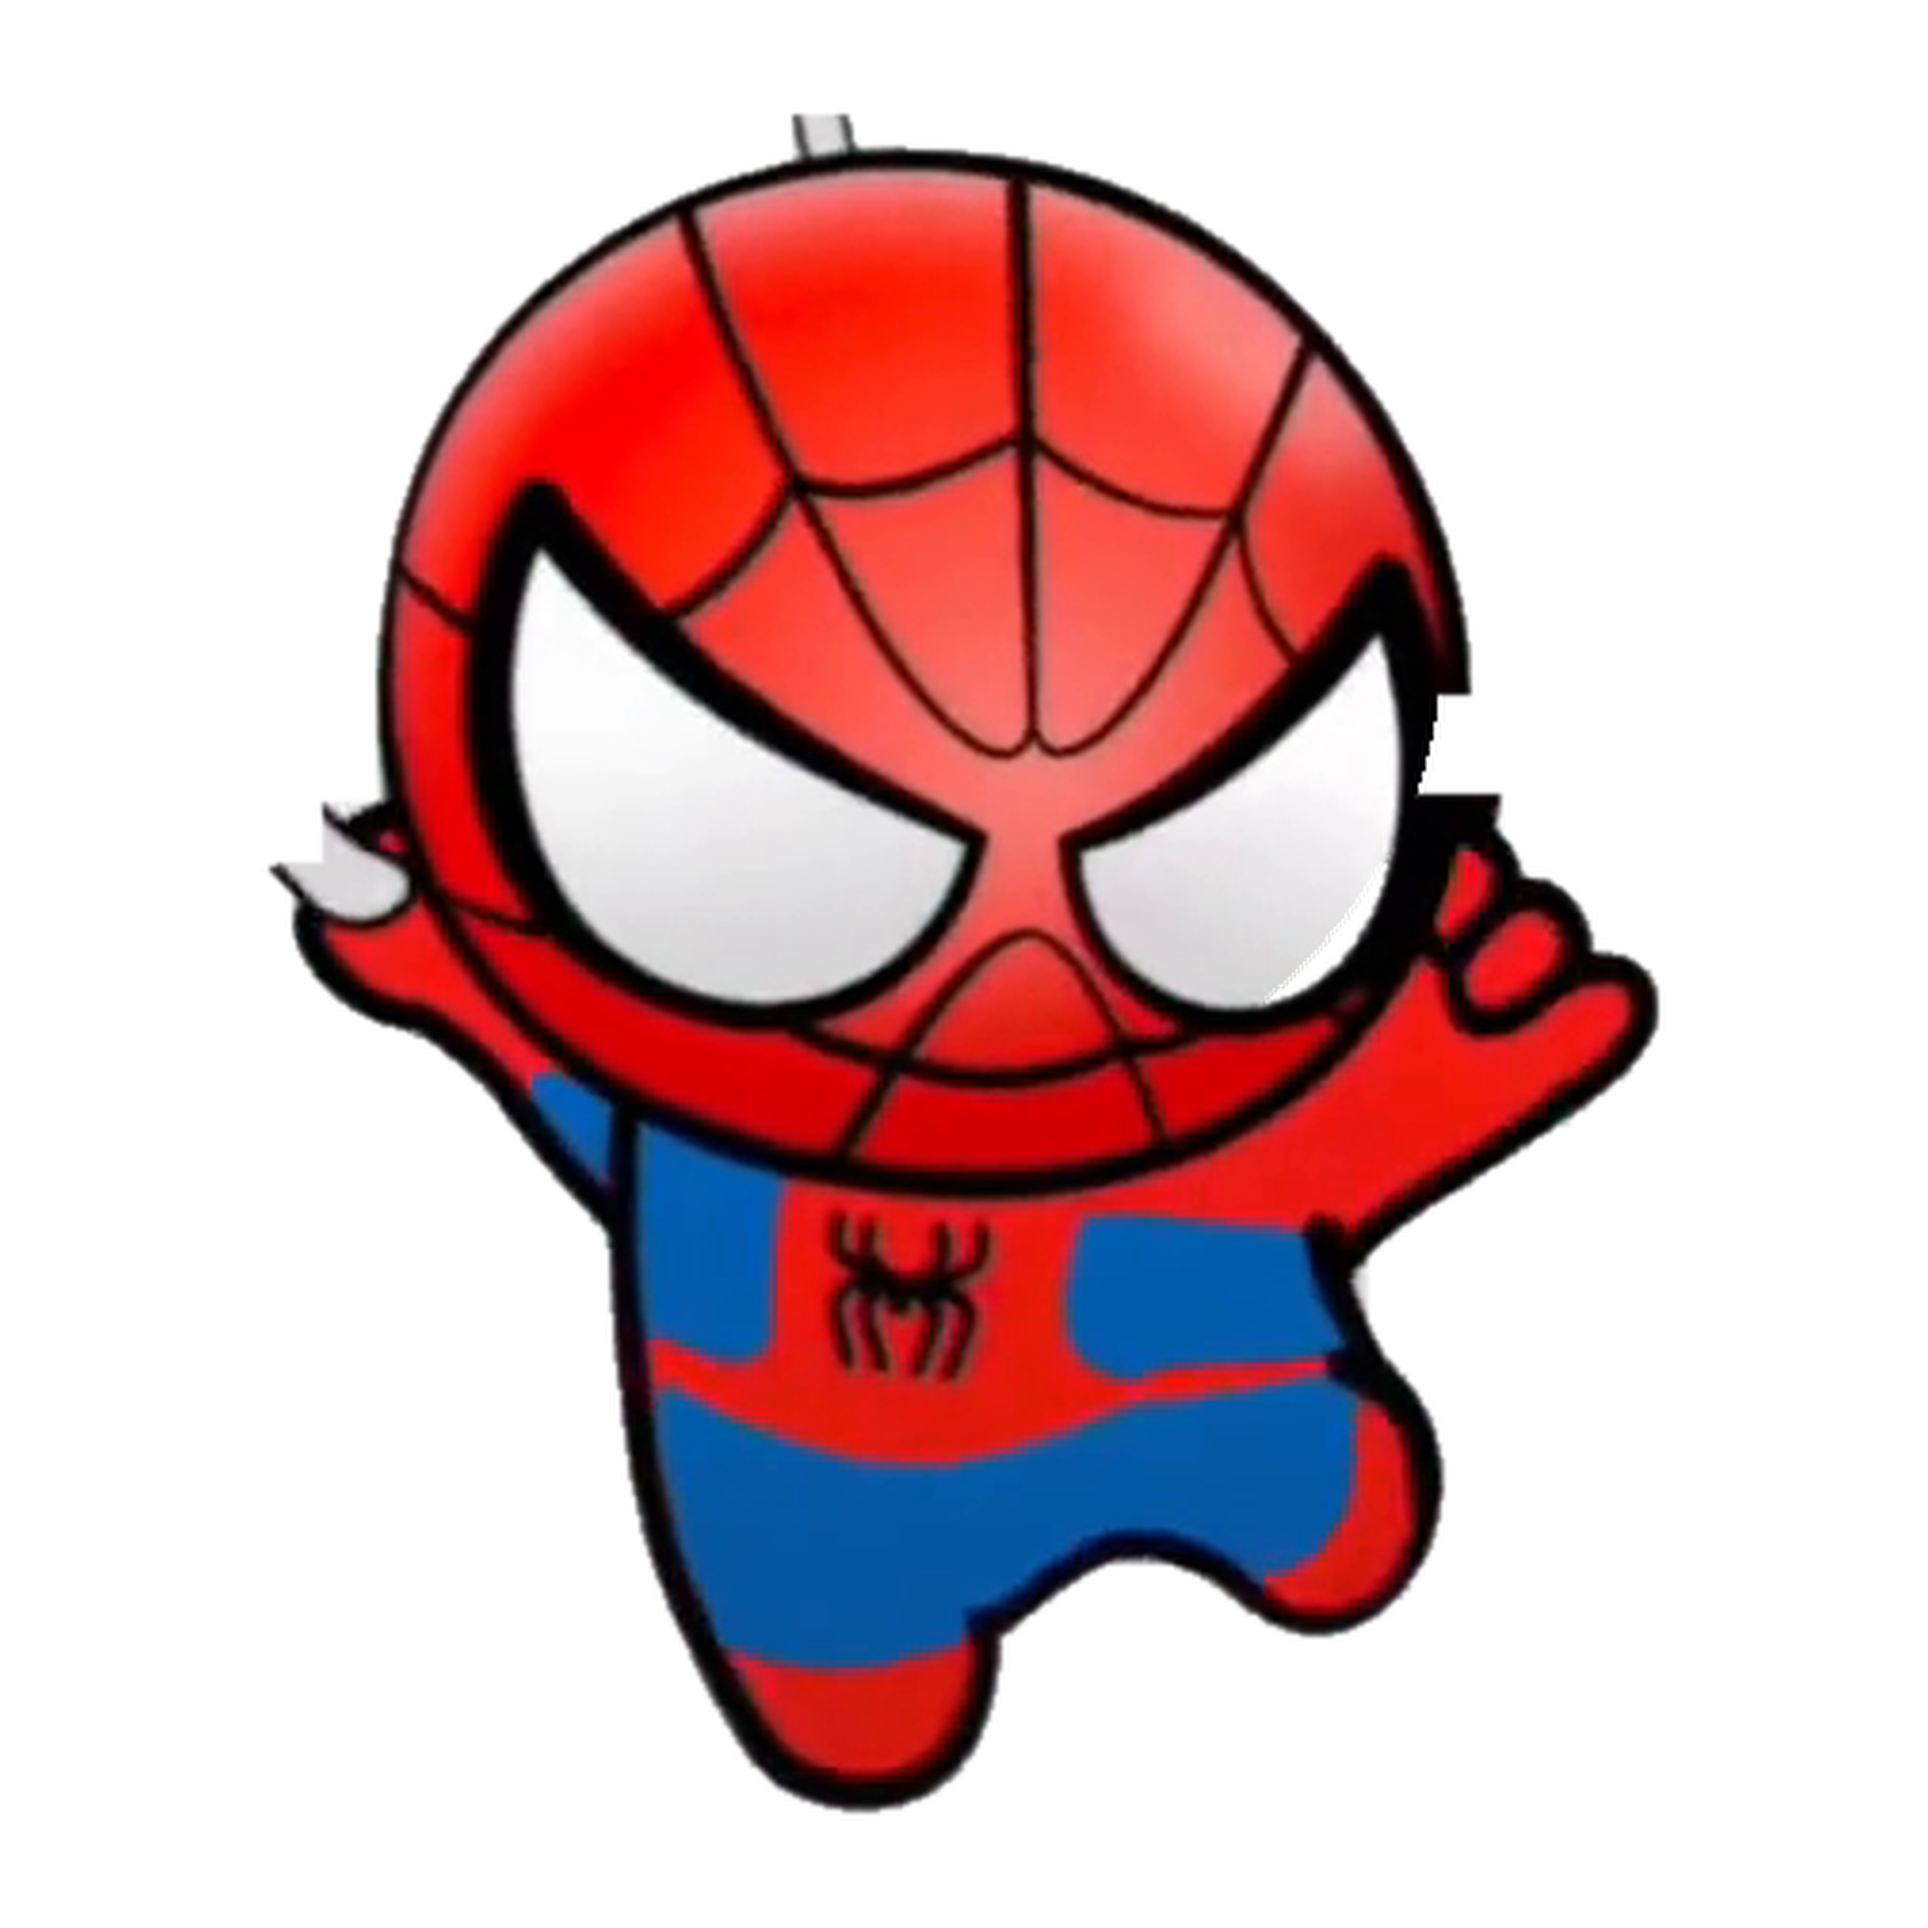
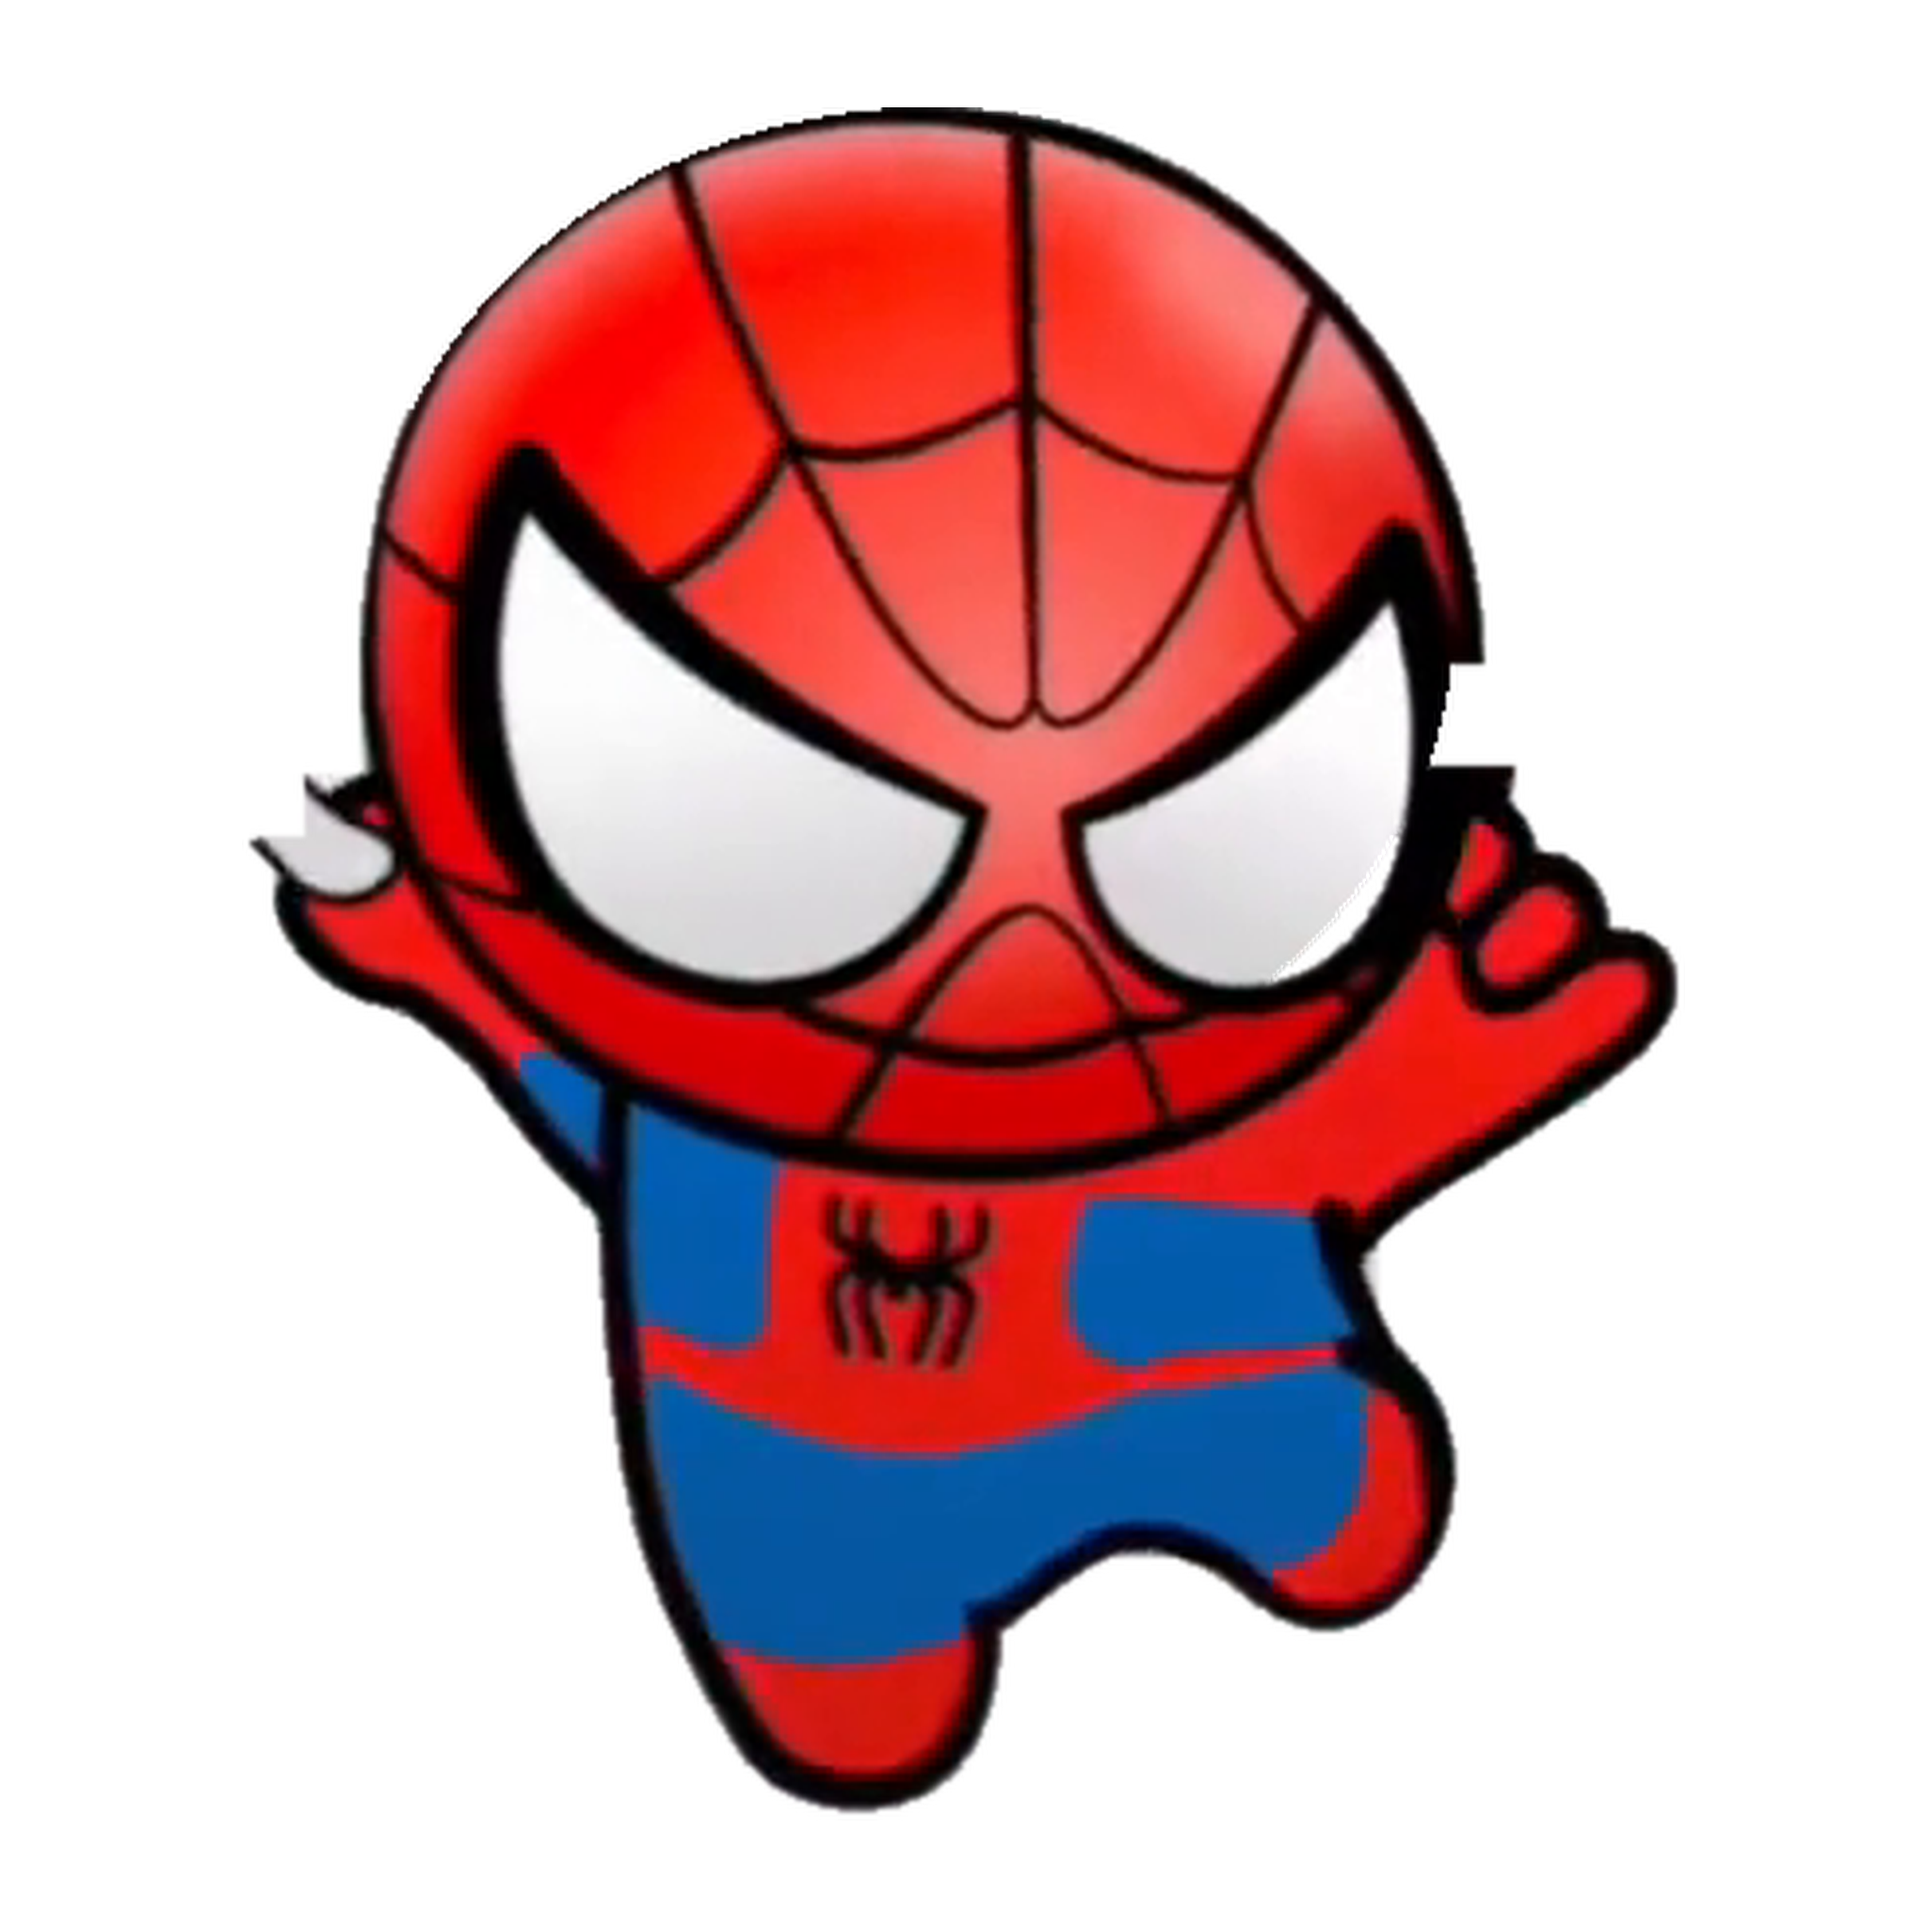
Smooth body effect and connect web anchor

Changed region(s): [[0.125, 0.0312, 0.875, 0.9375], [0.4688, 0.9062, 0.5, 0.9375]]

diff --git a/extension/content.js b/extension/content.js
@@ -14,11 +14,9 @@
     },
     body: {
       poses: [
-        "assets-v2/body-pose-1.png",
-        "assets-v2/body-pose-2.png",
-        "assets-v2/body-pose-3.png",
-        "assets-v2/body-pose-4.png",
-        "assets-v2/body-pose-5.png",
+        { source: "assets-v2/body-pose-2.png", x: "1.81%", y: ".98%" },
+        { source: "assets-v2/body-pose-4.png", x: "8.06%", y: ".39%" },
+        { source: "assets-v2/body-pose-5.png", x: "3.56%", y: "-1.56%" },
       ],
       audio: "assets/body.m4a",
       duration: 3150,
@@ -26,6 +24,7 @@
   });
   const ALLOWED_TEXT_INPUT_TYPES = new Set(["", "text", "search"]);
   const MAX_ACTIVE_EFFECTS = 3;
+  const imagePreloads = new Map();
 
   let settings = { ...DEFAULT_SETTINGS };
   let compositionInProgress = false;
@@ -199,6 +198,31 @@
     return image;
   }
 
+  function preloadImage(source) {
+    if (imagePreloads.has(source)) return imagePreloads.get(source);
+    const promise = new Promise((resolve) => {
+      const image = new Image();
+      const finish = () => {
+        const decoding = typeof image.decode === "function" ? image.decode() : null;
+        if (decoding?.then) decoding.then(resolve, resolve);
+        else resolve();
+      };
+      image.onload = finish;
+      image.onerror = resolve;
+      image.src = chrome.runtime.getURL(source);
+    });
+    imagePreloads.set(source, promise);
+    return promise;
+  }
+
+  function preloadVariant(variant) {
+    const characterSources = variant.poses
+      ? variant.poses.map((pose) => pose.source)
+      : [variant.character];
+    if (variant.poses) characterSources.push("assets-v2/heart.svg");
+    return Promise.all(characterSources.map(preloadImage));
+  }
+
   function makeWebSvg(kind) {
     const namespace = "http://www.w3.org/2000/svg";
     const svg = document.createElementNS(namespace, "svg");
@@ -209,7 +233,7 @@
 
     const paths = kind === "head"
       ? ["M492 -40 C492 100 492 230 492 430", "M508 -40 C508 100 508 230 508 430"]
-      : ["M486 -40 C486 130 430 260 386 470", "M500 -40 C500 130 444 266 400 474"];
+      : ["M486 -40 C486 130 474 270 456 470", "M500 -40 C500 130 488 276 470 474"];
 
     for (const data of paths) {
       const path = document.createElementNS(namespace, "path");
@@ -260,15 +284,9 @@
     return animations;
   }
 
-  function animatePose(image, index, duration) {
-    const ranges = [
-      [0, .19],
-      [.19, .39],
-      [.39, .60],
-      [.60, .80],
-      [.80, 1],
-    ];
-    const [start, end] = ranges[index];
+  function animatePose(image, index, total, duration) {
+    const start = index / total;
+    const end = (index + 1) / total;
     const cut = .0001;
     const frames = [];
     if (start === 0) {
@@ -338,14 +356,15 @@
     const web = makeLayer("position:absolute;left:15%;top:-2%;width:70%;height:60%;pointer-events:none");
     web.append(makeWebSvg("body"));
     const character = makeLayer("position:absolute;left:14%;top:34%;width:72%;aspect-ratio:1;pointer-events:none");
-    variant.poses.forEach((source, index) => {
-      const pose = makeCharacter(source);
+    variant.poses.forEach((poseConfig, index) => {
+      const pose = makeCharacter(poseConfig.source);
       pose.style.position = "absolute";
       pose.style.inset = "0";
       pose.style.opacity = index === 0 ? "1" : "0";
       pose.style.zIndex = String(index + 1);
+      pose.style.transform = `translate(${poseConfig.x},${poseConfig.y})`;
       character.append(pose);
-      animations.push(animatePose(pose, index, variant.duration));
+      animations.push(animatePose(pose, index, variant.poses.length, variant.duration));
     });
     rig.append(web, character);
     layer.append(rig);
@@ -359,6 +378,15 @@
       { offset: .84, transform: "translate(-48%,-4%) rotate(7deg) scale(.95)" },
       { offset: 1, transform: "translate(-61%,-58%) rotate(-18deg) scale(.78)" },
     ], { duration: variant.duration, easing: "cubic-bezier(.34,.04,.23,1)", fill: "both" }));
+
+    animations.push(rig.animate([
+      { offset: 0, opacity: 0 },
+      { offset: .1499, opacity: 0 },
+      { offset: .15, opacity: 1 },
+      { offset: .68, opacity: 1 },
+      { offset: .6801, opacity: 0 },
+      { offset: 1, opacity: 0 },
+    ], { duration: variant.duration, easing: "linear", fill: "both" }));
 
     animations.push(character.animate([
       { transform: "rotate(4deg) translateY(0)" },
@@ -380,10 +408,12 @@
     return animations;
   }
 
-  function playEffect() {
+  async function playEffect() {
     if (!settings.enabled) return;
     const slug = chooseVariant();
     const variant = VARIANTS[slug];
+    await preloadVariant(variant);
+    if (!settings.enabled) return;
     const root = ensureOverlay();
 
     while (activeEffects.length >= MAX_ACTIVE_EFFECTS) discard(activeEffects[0]);
@@ -418,5 +448,11 @@
 
   chrome.runtime.onMessage.addListener((message) => {
     if (message?.type === "MJ_PLAY_EFFECT" && window === window.top) playEffect();
+  });
+
+  queueMicrotask(() => {
+    if (window === window.top) {
+      for (const variant of Object.values(VARIANTS)) preloadVariant(variant);
+    }
   });
 })();

diff --git a/scripts/build_layered_assets.py b/scripts/build_layered_assets.py
@@ -54,6 +54,14 @@ BODY_FACE_ELLIPSES = (
     (85, 115, 350, 374),
 )
 
+BODY_HEAD_OUTLINES = (
+    (375, -125, 690, 178),
+    (88, 265, 377, 523),
+    (142, 303, 432, 576),
+    (176, 250, 468, 524),
+    (72, 104, 362, 382),
+)
+
 
 def largest_component(mask: np.ndarray) -> np.ndarray:
     """Keep the character while discarding detached hearts and video marks."""
@@ -177,6 +185,7 @@ def isolate_character(
     crop: tuple[int, int, int, int],
     eye_boxes: tuple[tuple[int, int, int, int], ...] = (),
     face_ellipse: tuple[int, int, int, int] | None = None,
+    thread_guard_ellipse: tuple[int, int, int, int] | None = None,
     keep_largest: bool = False,
 ) -> Image.Image:
     image = source.convert("RGB").crop(crop)
@@ -222,6 +231,13 @@ def isolate_character(
         face_mask = Image.new("L", image.size)
         ImageDraw.Draw(face_mask).ellipse(face_ellipse, fill=255)
         alpha = np.maximum(alpha, np.asarray(face_mask, dtype=np.uint8))
+        if keep_largest and thread_guard_ellipse:
+            left, top, right, bottom = thread_guard_ellipse
+            guard_mask = Image.new("L", image.size)
+            ImageDraw.Draw(guard_mask).ellipse(thread_guard_ellipse, fill=255)
+            rows = np.indices(alpha.shape)[0]
+            upper_face = rows < top + round((bottom - top) * 0.3)
+            alpha[upper_face & (np.asarray(guard_mask) == 0)] = 0
     else:
         if eye_boxes:
             alpha[enclosed_bright_regions(pixels, eye_boxes)] = 255
@@ -301,6 +317,7 @@ def main() -> None:
             reference,
             (0, 0, reference.width, reference.height),
             face_ellipse=BODY_FACE_ELLIPSES[index - 1],
+            thread_guard_ellipse=BODY_HEAD_OUTLINES[index - 1],
             keep_largest=True,
         )
         result = fit_to_canvas(isolated, (1680, 1820))

diff --git a/SPEC.md b/SPEC.md
@@ -100,13 +100,15 @@
 
 ## 6. 素材处理方案
 
-### 6.1 当前 0.3 版实现
+### 6.1 当前 0.4 版实现
 
 - 使用 `sample/sample_better.mp4` 中的高清画面作为重制参考。
 - 大头倒挂版使用完整面罩内层，白色眼片与黑色眼框保持素材原始配准。
-- 全身版使用五张 2048×2048 透明姿势图，按样例动作阶段切换。
+- 全身版使用三张完整的 2048×2048 透明姿势图，按样例动作阶段切换；不再使用原视频中被画面边缘裁切的姿势帧。
 - 原视频中的灰色背景、水印和大部分原始绳线不进入网页覆盖层。
 - 蛛丝由扩展运行时使用内联 SVG 绘制。
+- 各姿势按共同的头顶蛛丝锚点配准，SVG 长蛛丝延伸进角色轮廓，摆动中不会露出连接缝隙。
+- 角色与爱心素材在播放前预加载并完成解码，降低首次触发时的卡顿和缺帧。
 - 全身版的粉色爱心使用独立 SVG，在对应伸手姿势中从右手指尖连续发射。
 - 入场、摆荡、细微晃动和退场均由 Web Animations 实现，不再使用逐帧 APNG。
 

diff --git a/README.md b/README.md
@@ -2,7 +2,7 @@
 
 在网页搜索框、评论区、文本框或其他可编辑区域中输入 `mj`，扩展会随机播放两种高清卡通蜘蛛侠摆荡特效，并播放对应声音。匹配不区分大小写，输入的 `mj` 会原样保留。
 
-0.3 版使用 2048×2048 透明角色 PNG、全身版五个独立动作姿势、SVG 蛛丝和 SVG 爱心，通过 Web Animations 分层运动；爱心从角色右手逐颗发射，不再播放从手机录屏逐帧抠出的 APNG。
+0.4 版使用 2048×2048 透明角色 PNG、全身版三个完整动作姿势、SVG 蛛丝和 SVG 爱心，通过 Web Animations 分层运动；角色图会在触发前完成解码，蛛丝锚点统一，爱心从角色右手逐颗发射。
 
 ## 安装到 Edge
 
